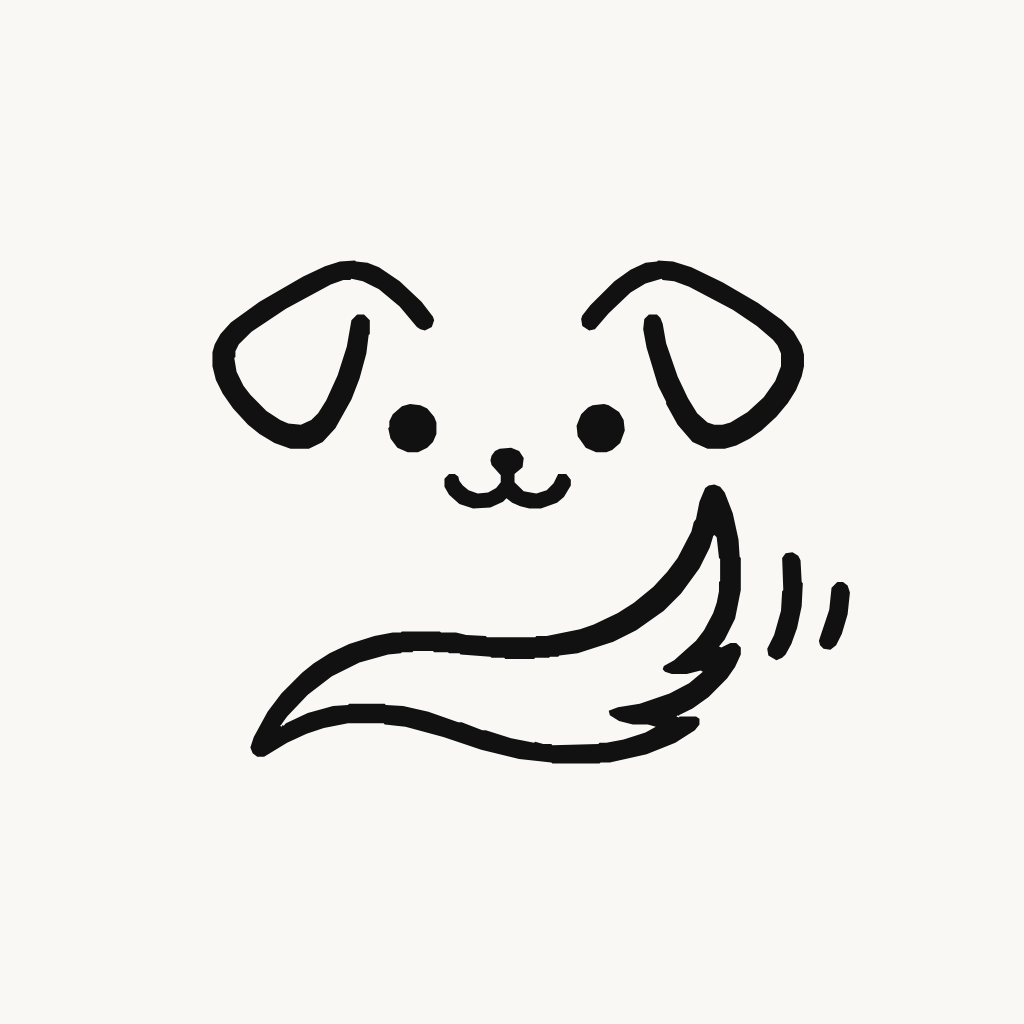
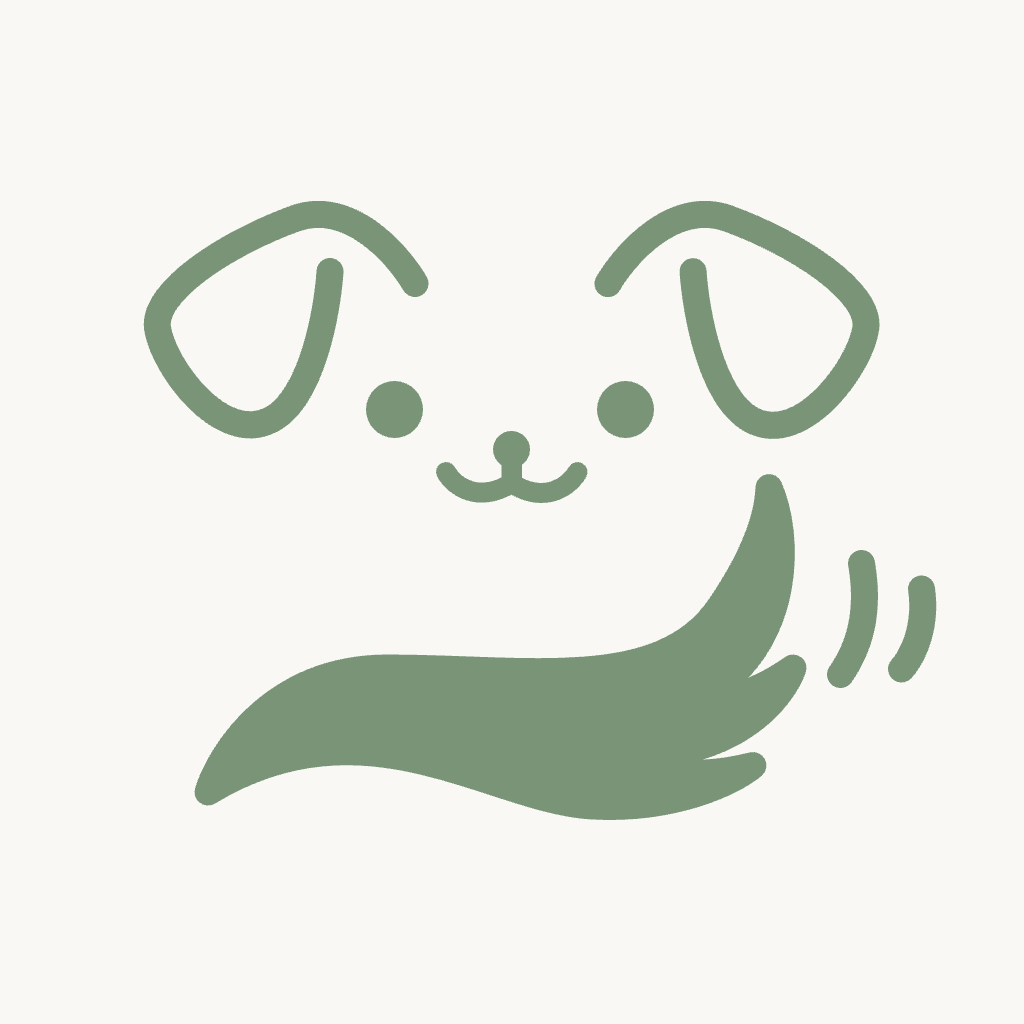
feat: UI 개선

Changed region(s): [[0.1875, 0.4688, 0.9375, 0.8125], [0.125, 0.1875, 0.875, 0.5]]

diff --git a/components/AppHeader.tsx b/components/AppHeader.tsx
@@ -1,4 +1,3 @@
-import { Image } from "expo-image";
 import { router, useGlobalSearchParams } from "expo-router";
 import { useState } from "react";
 import {
@@ -22,31 +21,6 @@ import FeatureHintModal from "./FeatureHintModal";
 
 const FEEDBACK_URL = "https://open.kakao.com/o/sqYtAKvi";
 
-const dogLogoSource = require("../assets/dog-logo.svg");
-const catLogoSource: ReturnType<typeof require> = require("../assets/cat-logo.svg");
-
-const LOGO_SOURCES: Record<"dog" | "cat", ReturnType<typeof require>> = {
-  dog: dogLogoSource,
-  cat: catLogoSource,
-};
-
-function getLogoSource(species: string | undefined): ReturnType<typeof require> {
-  if (species?.toLowerCase() === "cat") return LOGO_SOURCES.cat;
-  return LOGO_SOURCES.dog;
-}
-
-function Logo({ species }: { species: string | undefined }) {
-  const [failed, setFailed] = useState(false);
-  if (failed) return <Text style={styles.logoText}>꼬리</Text>;
-  return (
-    <Image
-      source={getLogoSource(species)}
-      style={styles.logoImage}
-      contentFit="contain"
-      onError={() => setFailed(true)}
-    />
-  );
-}
 
 export default function AppHeader() {
   const insets = useSafeAreaInsets();
@@ -108,17 +82,6 @@ export default function AppHeader() {
 
       <View style={styles.center} />
 
-      {/* 우측: BETA 배지 + 로고 */}
-      <View style={styles.logoArea}>
-        <TouchableOpacity
-          style={styles.betaBadge}
-          onPress={handleBetaPress}
-          activeOpacity={0.7}
-        >
-          <Text style={styles.betaText}>BETA ›</Text>
-        </TouchableOpacity>
-        <Logo species={currentPet?.species} />
-      </View>
 
       <FeatureHintModal
         visible={petLimitVisible}

diff --git a/app/(tabs)/settings.tsx b/app/(tabs)/settings.tsx
@@ -467,7 +467,7 @@ export default function SettingsScreen() {
         {Platform.OS === 'web' ? (
           <>
             <Row
-              icon={<Clock size={20} color={colors.textQuaternary} />}
+              icon={<Clock size={20} color={colors.textSecondary} />}
               label="일일 기록 알림"
               desc="앱에서 이용할 수 있어요"
               disabled
@@ -534,9 +534,9 @@ export default function SettingsScreen() {
 
       <GroupTitle label="데이터" />
       <Card>
-        <Row icon={<Database size={20} color={colors.textQuaternary} />} label="데이터 백업 / 내보내기" right={<ComingSoonBadge />} disabled />
-        <Row icon={<Database size={20} color={colors.textQuaternary} />} label="데이터 가져오기" right={<ComingSoonBadge />} disabled />
-        <Row icon={<Trash2 size={20} color={colors.textSecondary} />} label="캐시 비우기" onPress={handleClearCache} last />
+        <Row icon={<Database size={20} color={colors.textSecondary} />} label="데이터 백업 / 내보내기" right={<ComingSoonBadge />} disabled />
+        <Row icon={<Database size={20} color={colors.textSecondary} />} label="데이터 가져오기" right={<ComingSoonBadge />} disabled />
+        <Row icon={<Trash2 size={20} color={colors.danger} />} label="캐시 비우기" onPress={handleClearCache} destructive last />
       </Card>
 
       <GroupTitle label="정보" />
@@ -550,7 +550,7 @@ export default function SettingsScreen() {
       <Card>
         <Row icon={<MessageCircle size={20} color={colors.textSecondary} />} label="문의하기" desc="카카오 오픈채팅" onPress={() => openURL(FEEDBACK_URL)} />
         <Row icon={<Newspaper size={20} color={colors.textSecondary} />} label="업데이트 소식" onPress={() => openURL(NEWS_URL)} />
-       {/* <Row icon={<Star size={20} color={colors.textSecondary} />} label="리뷰 남기기" desc="앱스토어에서 별점 남기기" onPress={handleReview} /> */}
+        {/*<Row icon={<Star size={20} color={colors.textSecondary} />} label="리뷰 남기기" desc="앱스토어에서 별점 남기기" onPress={handleReview} />*/}
         <Row icon={<Heart size={20} color={colors.textSecondary} />} label="꼬리 응원하기" desc="개발자에게 간식 사주기" onPress={handleDonation} />
         <Row icon={<PawPrint size={20} color={colors.textSecondary} />} label="꼬리 흔들게 하기 🐾" onPress={handleWag} last />
       </Card>
@@ -558,12 +558,13 @@ export default function SettingsScreen() {
       <GroupTitle label="계정" />
       <Card>
         <Row
-          icon={<LogOut size={20} color={colors.textSecondary} />}
+          icon={<LogOut size={20} color={colors.danger} />}
           label="로그아웃"
           desc={isLoggingOut ? '로그아웃 중이에요' : getProviderLabel(loginProvider)}
-          right={isLoggingOut ? <ActivityIndicator color={colors.textSecondary} /> : undefined}
+          right={isLoggingOut ? <ActivityIndicator color={colors.danger} /> : undefined}
           onPress={handleLogout}
           disabled={isLoggingOut || isDeletingAccount}
+          destructive
         />
         <Row
           icon={<UserX size={20} color={colors.danger} />}
@@ -689,7 +690,8 @@ const s = StyleSheet.create({
   row: {
     flexDirection: 'row',
     alignItems: 'center',
-    height: 56,
+    minHeight: 44,
+    paddingVertical: spacing.md,
     paddingHorizontal: spacing.lg,
     gap: spacing.md,
   },